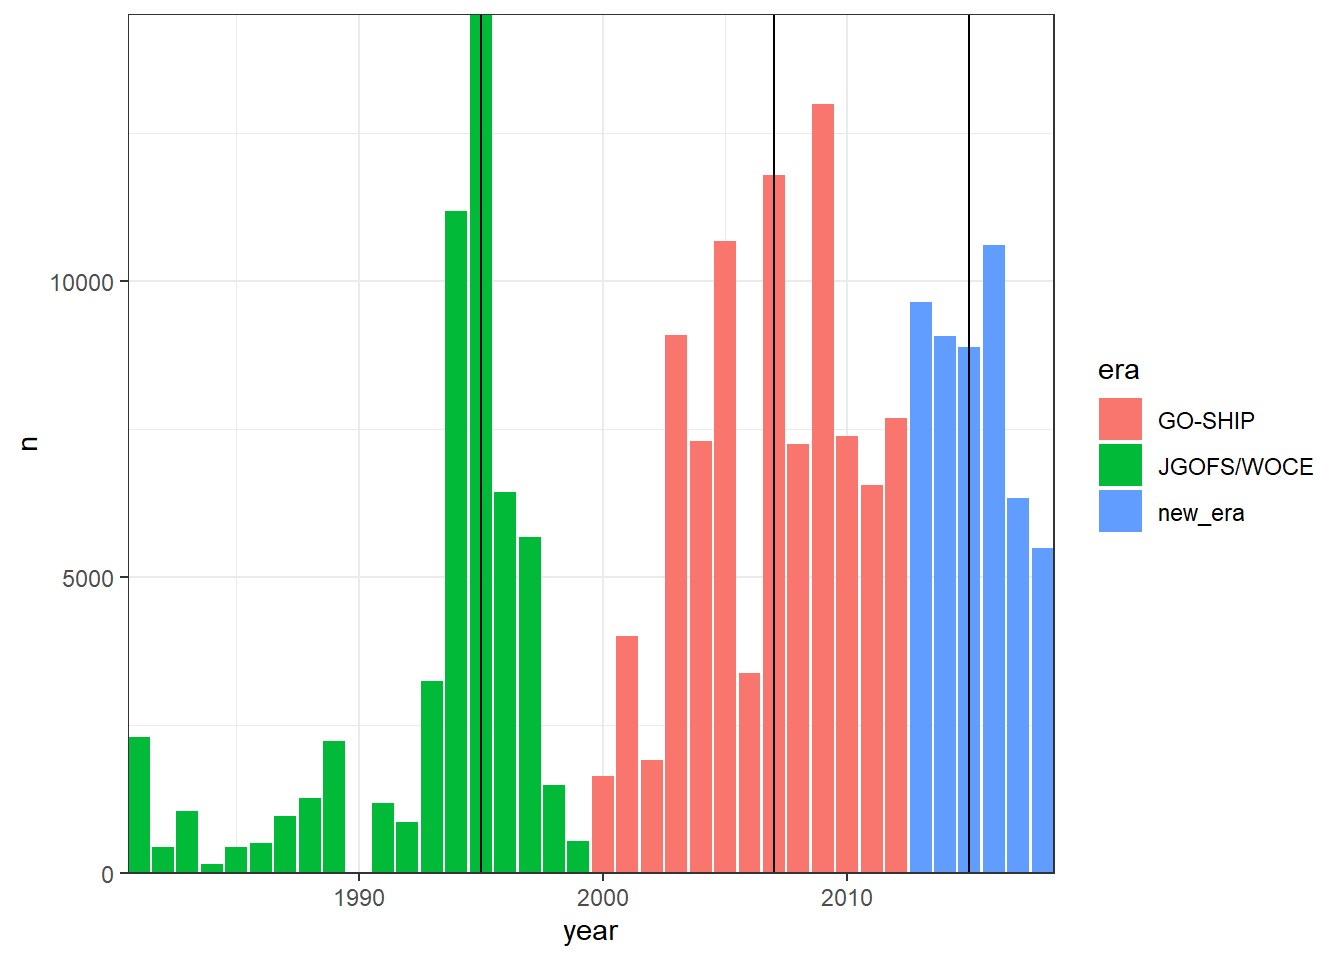
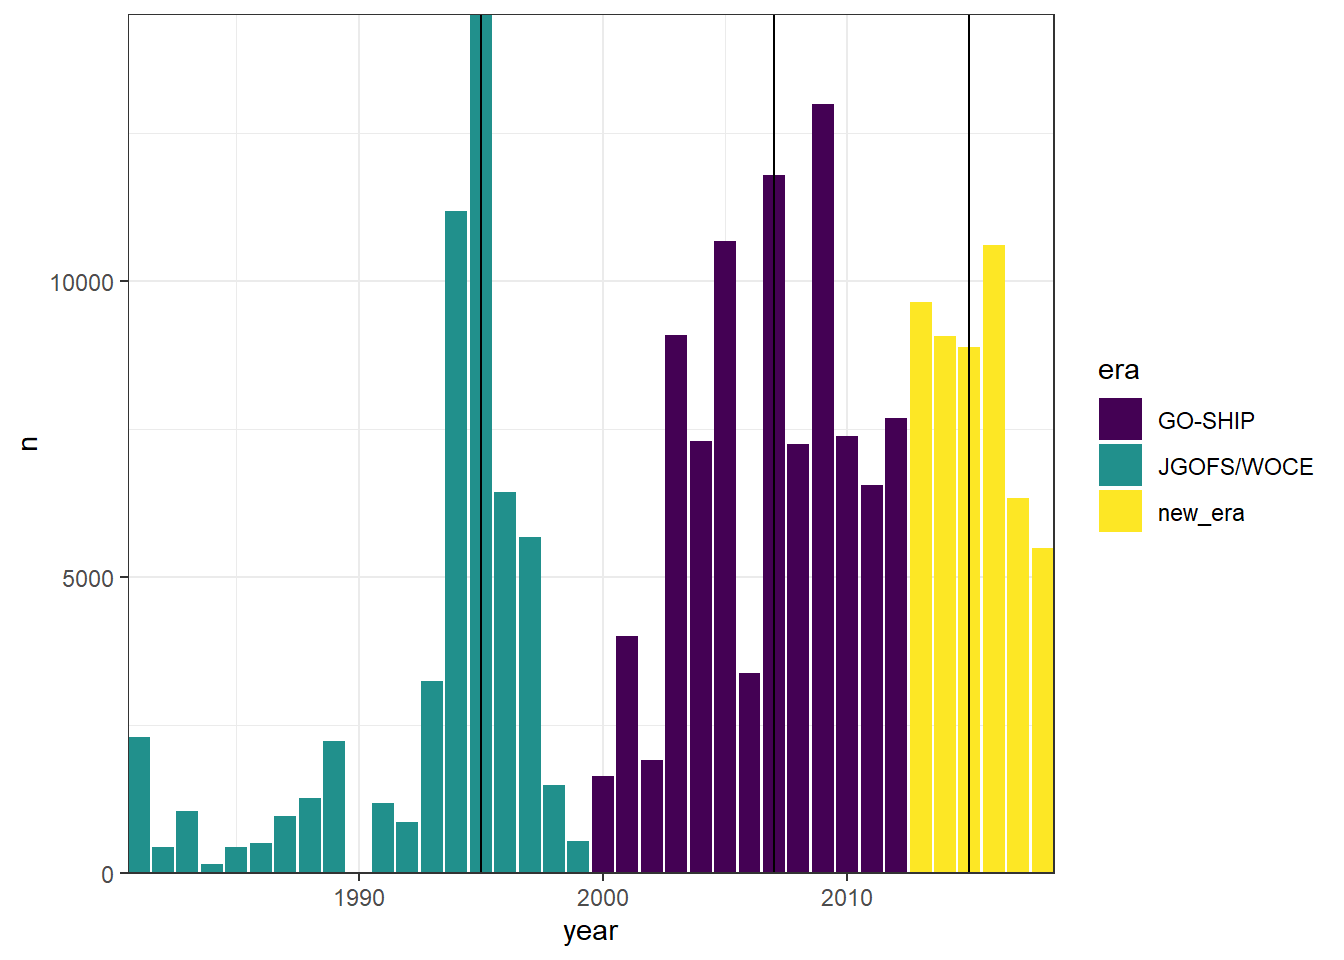
Build site.

Changed region(s): [[0.0938, 0.0, 0.7812, 0.9062], [0.8125, 0.4062, 0.875, 0.5625]]

diff --git a/docs/read_GLODAPv2_2020.html b/docs/read_GLODAPv2_2020.html
@@ -430,7 +430,7 @@ div.tocify {
 
 <h1 class="title toc-ignore">GLODAPv2_2020</h1>
 <h4 class="author">Jens Daniel Müller</h4>
-<h4 class="date">18 July, 2020</h4>
+<h4 class="date">19 July, 2020</h4>
 
 </div>
 
@@ -455,7 +455,7 @@ div.tocify {
 <div class="tab-content">
 <div id="summary" class="tab-pane fade in active">
 <p>
-<strong>Last updated:</strong> 2020-07-18
+<strong>Last updated:</strong> 2020-07-19
 </p>
 <p>
 <strong>Checks:</strong> <span class="glyphicon glyphicon-ok text-success" aria-hidden="true"></span> 7 <span class="glyphicon glyphicon-exclamation-sign text-danger" aria-hidden="true"></span> 0
@@ -546,16 +546,16 @@ This reproducible <a href="http://rmarkdown.rstudio.com">R Markdown</a> analysis
 <div class="panel panel-default">
 <div class="panel-heading">
 <p class="panel-title">
-<a data-toggle="collapse" data-parent="#workflowr-checks" href="#strongRepositoryversionstrongahrefhttpsgithubcomjensdanielmuellerCanteMLRtreed3032c78f0a214bebe52a9977909bf190280cf7btargetblankd3032c7a"> <span class="glyphicon glyphicon-ok text-success" aria-hidden="true"></span> <strong>Repository version:</strong> <a href="https://github.com/jens-daniel-mueller/Cant_eMLR/tree/d3032c78f0a214bebe52a9977909bf190280cf7b" target="_blank">d3032c7</a> </a>
+<a data-toggle="collapse" data-parent="#workflowr-checks" href="#strongRepositoryversionstrongahrefhttpsgithubcomjensdanielmuellerCanteMLRtree66540a9dacdcb845b9f58fa12b7337cb479469f0targetblank66540a9a"> <span class="glyphicon glyphicon-ok text-success" aria-hidden="true"></span> <strong>Repository version:</strong> <a href="https://github.com/jens-daniel-mueller/Cant_eMLR/tree/66540a9dacdcb845b9f58fa12b7337cb479469f0" target="_blank">66540a9</a> </a>
 </p>
 </div>
[2 lines of base64/hex data omitted]
 <div class="panel-body">
 <p>
 Great! You are using Git for version control. Tracking code development and connecting the code version to the results is critical for reproducibility.
 </p>
 <p>
-The results in this page were generated with repository version <a href="https://github.com/jens-daniel-mueller/Cant_eMLR/tree/d3032c78f0a214bebe52a9977909bf190280cf7b" target="_blank">d3032c7</a>. See the <em>Past versions</em> tab to see a history of the changes made to the R Markdown and HTML files.
+The results in this page were generated with repository version <a href="https://github.com/jens-daniel-mueller/Cant_eMLR/tree/66540a9dacdcb845b9f58fa12b7337cb479469f0" target="_blank">66540a9</a>. See the <em>Past versions</em> tab to see a history of the changes made to the R Markdown and HTML files.
 </p>
 <p>
 Note that you need to be careful to ensure that all relevant files for the analysis have been committed to Git prior to generating the results (you can use <code>wflow_publish</code> or <code>wflow_git_commit</code>). workflowr only checks the R Markdown file, but you know if there are other scripts or data files that it depends on. Below is the status of the Git repository when the results were generated:
@@ -607,6 +607,40 @@ Message
 </tr>
 </thead>
 <tbody>
+<tr>
+<td>
+Rmd
+</td>
+<td>
+<a href="https://github.com/jens-daniel-mueller/Cant_eMLR/blob/66540a9dacdcb845b9f58fa12b7337cb479469f0/analysis/read_GLODAPv2_2020.Rmd" target="_blank">66540a9</a>
+</td>
+<td>
+jens-daniel-mueller
+</td>
+<td>
+2020-07-19
+</td>
+<td>
+formating and color scale
+</td>
+</tr>
+<tr>
+<td>
+html
+</td>
+<td>
+<a href="https://rawcdn.githack.com/jens-daniel-mueller/Cant_eMLR/61b3390d84b031834f445958a56c528fa615242a/docs/read_GLODAPv2_2020.html" target="_blank">61b3390</a>
+</td>
+<td>
+jens-daniel-mueller
+</td>
+<td>
+2020-07-18
+</td>
+<td>
+Build site.
+</td>
+</tr>
 <tr>
 <td>
 Rmd
@@ -804,11 +838,11 @@ flag_qc &lt;- 1
 min_depth &lt;- 150</code></pre>
 <p>Only samples with all relevant parameters determined were selected. The following subsetting parameters were defined:</p>
 <ul>
-<li><p>flag_f: 2</p></li>
-<li><p>flag_qc: 1</p></li>
-<li><p>min_depth: 150</p></li>
-<li><p>summary statistics were calculated during cleaning process</p></li>
+<li>flag_f: 2</li>
+<li>flag_qc: 1</li>
+<li>min_depth: 150m</li>
 </ul>
+<p>Summary statistics were calculated during cleaning process</p>
 </div>
 <div id="subset-rows" class="section level2">
 <h2><span class="header-section-number">2.2</span> Subset rows</h2>
@@ -963,21 +997,8 @@ rm(GLODAP_stats_long, GLODAP_stats)</code></pre>
 </div>
 <div id="overview-plots" class="section level1">
 <h1><span class="header-section-number">3</span> Overview plots</h1>
-<p>Open clean data file.</p>
-<pre class="r"><code>GLODAP &lt;- read_csv(here::here(&quot;data/GLODAPv2_2020/_summarized_data_files&quot;,
-                              &quot;GLODAPv2.2020_clean.csv&quot;))</code></pre>
-<div id="assign-spatial-grid" class="section level2">
-<h2><span class="header-section-number">3.1</span> Assign spatial grid</h2>
-<p>For the following plots, observations were gridded spatially to 5°x5° intervals.</p>
-<pre class="r"><code>GLODAP &lt;- GLODAP %&gt;% 
-  mutate(lat_grid = cut(latitude, seq(-90, 90, 5), seq(-87.5, 87.5, 5)),
-         lat_grid = as.numeric(as.character(lat_grid)),
-         lon_grid = cut(longitude, seq(-180, 180, 5), seq(-177.5, 177.5, 5)),
-         lon_grid = as.numeric(as.character(lon_grid))) %&gt;% 
-  arrange(date)</code></pre>
-</div>
 <div id="cleaning-stats" class="section level2">
-<h2><span class="header-section-number">3.2</span> Cleaning stats</h2>
+<h2><span class="header-section-number">3.1</span> Cleaning stats</h2>
 <pre class="r"><code>GLODAP_stats_long &lt;-  read_csv(here::here(&quot;data/GLODAPv2_2020/_summarized_data_files&quot;,
                                              &quot;GLODAPv2.2020_stats.csv&quot;))
 
@@ -992,6 +1013,18 @@ GLODAP_stats_long %&gt;%
   theme(axis.title.y = element_blank())</code></pre>
 <p><img src="figure/read_GLODAPv2_2020.Rmd/GLODAP_stats_barplot-1.png" width="672" style="display: block; margin: auto;" /></p>
 <pre class="r"><code>rm(GLODAP_stats_long)</code></pre>
+</div>
+<div id="assign-spatial-grid" class="section level2">
+<h2><span class="header-section-number">3.2</span> Assign spatial grid</h2>
+<p>For the following plots, the cleaned data set was re-opened and observations were gridded spatially to 5°x5° intervals.</p>
+<pre class="r"><code>GLODAP &lt;- read_csv(here::here(&quot;data/GLODAPv2_2020/_summarized_data_files&quot;,
+                              &quot;GLODAPv2.2020_clean.csv&quot;))</code></pre>
+<pre class="r"><code>GLODAP &lt;- GLODAP %&gt;% 
+  mutate(lat_grid = cut(latitude, seq(-90, 90, 5), seq(-87.5, 87.5, 5)),
+         lat_grid = as.numeric(as.character(lat_grid)),
+         lon_grid = cut(longitude, seq(-180, 180, 5), seq(-177.5, 177.5, 5)),
+         lon_grid = as.numeric(as.character(lon_grid))) %&gt;% 
+  arrange(date)</code></pre>
 </div>
 <div id="histogram-latitudes" class="section level2">
 <h2><span class="header-section-number">3.3</span> Histogram latitudes</h2>
@@ -1025,6 +1058,7 @@ GLODAP_histogram_year %&gt;%
   ggplot(aes(year, n, fill=era))+
   geom_col()+
   geom_vline(data = era_median_year, aes(xintercept = t_ref))+
+  scale_fill_viridis_d()+
   coord_cartesian(expand = 0)</code></pre>
 <p><img src="figure/read_GLODAPv2_2020.Rmd/histogramm_year_observations-1.png" width="672" style="display: block; margin: auto;" /></p>
 <pre class="r"><code>rm(GLODAP_histogram_year,
@@ -1073,7 +1107,7 @@ GLODAP_map_era %&gt;%
 </div>
 <div id="individual-cruise-sections" class="section level1">
 <h1><span class="header-section-number">4</span> Individual cruise sections</h1>
-<p>Zonal and meridional section plots are produce</p>
+<p>Zonal and meridional section plots are produce for each cruise individually and stored locally.</p>
 <pre class="r"><code>cruises &lt;- GLODAP %&gt;% 
   group_by(cruise) %&gt;% 
   summarise(date_mean = mean(date, na.rm = TRUE),
